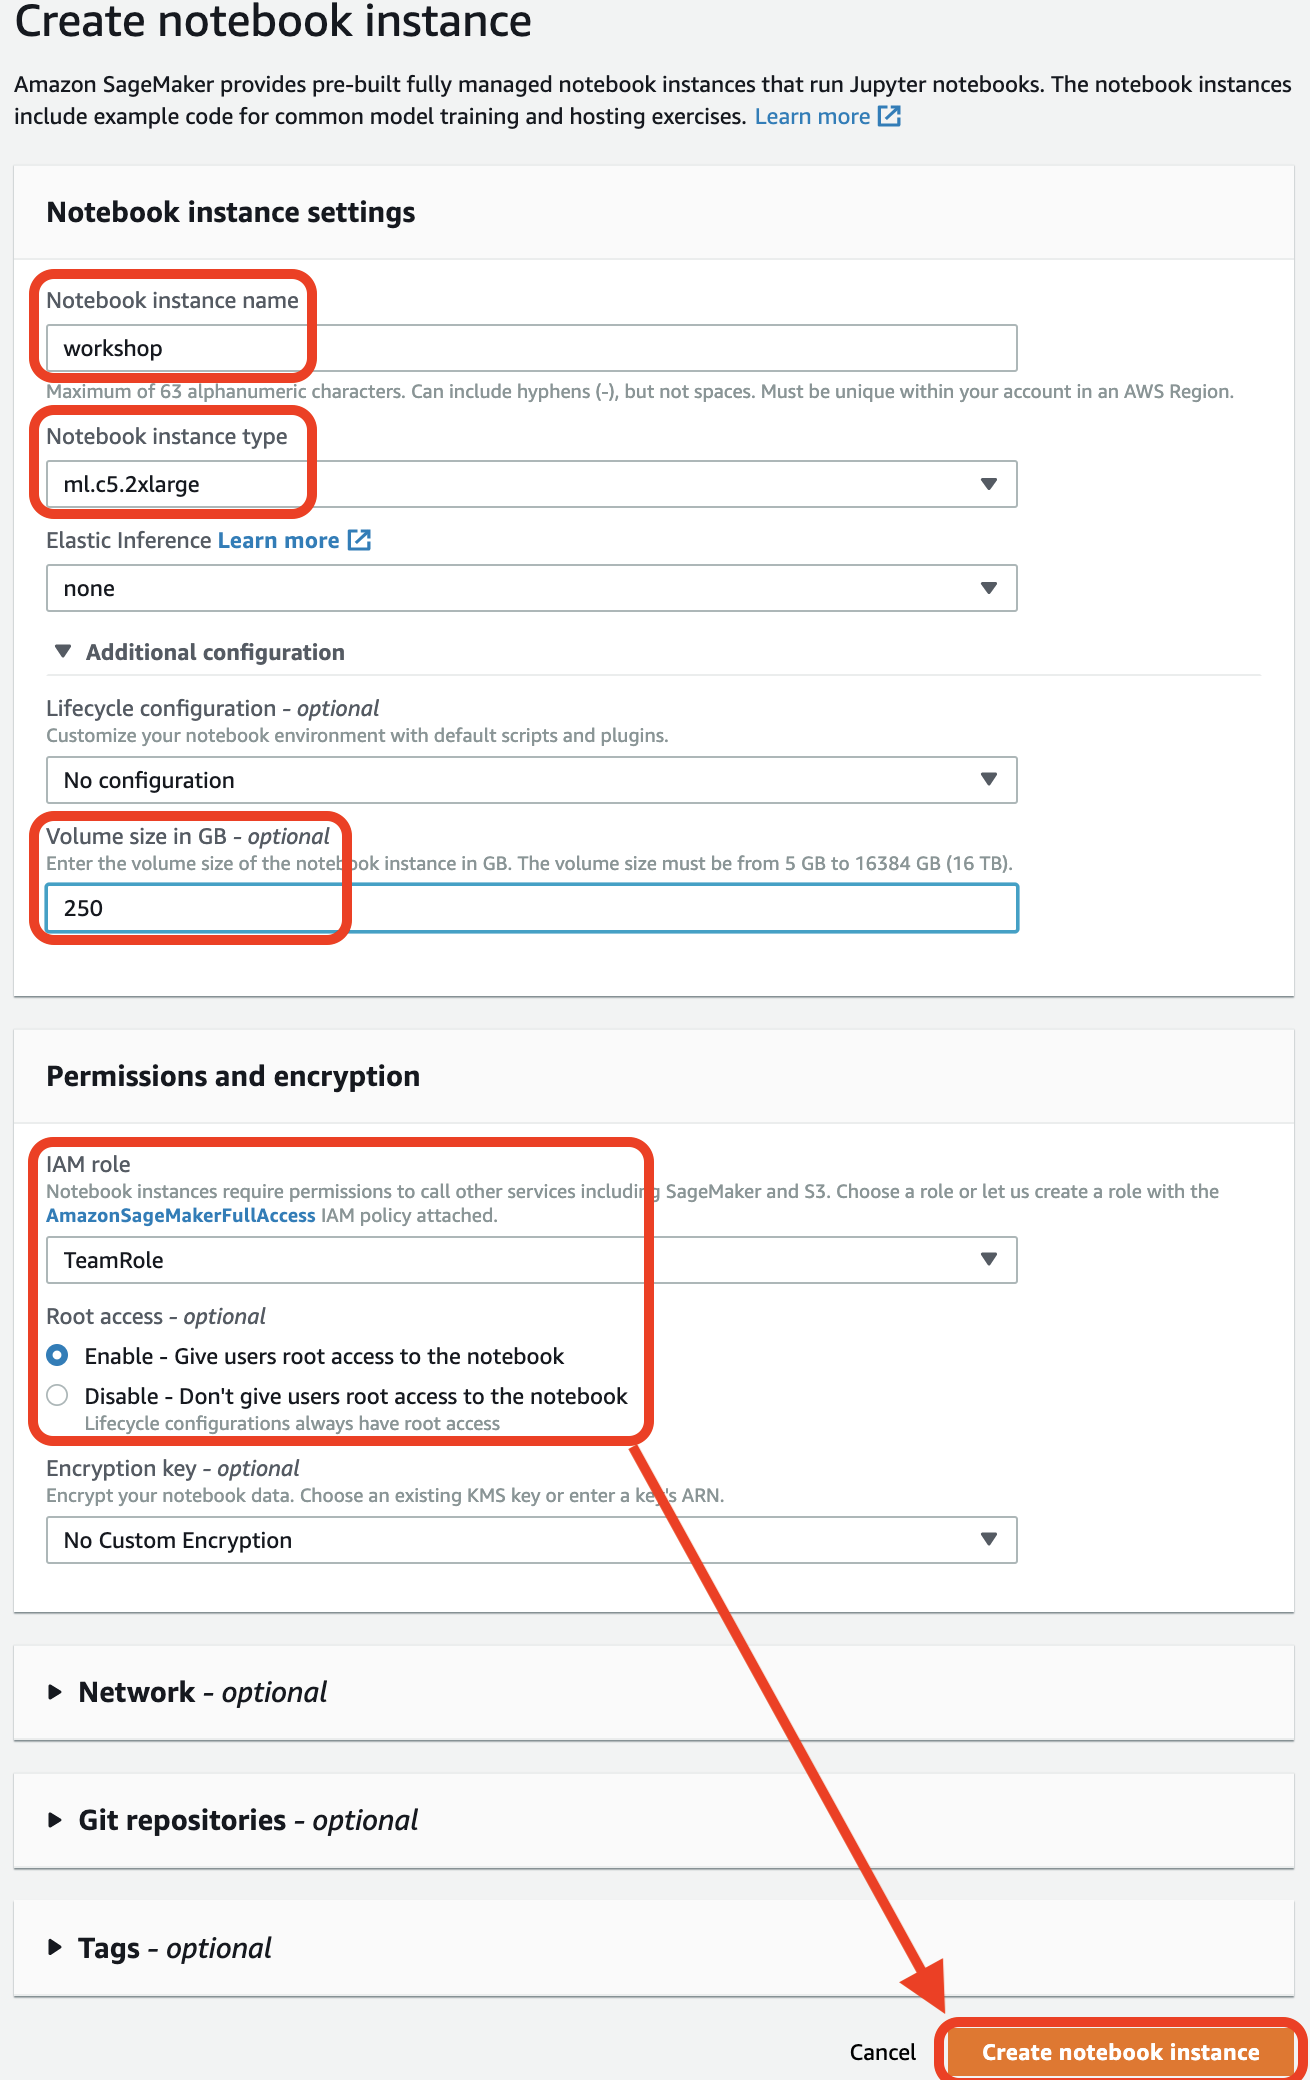
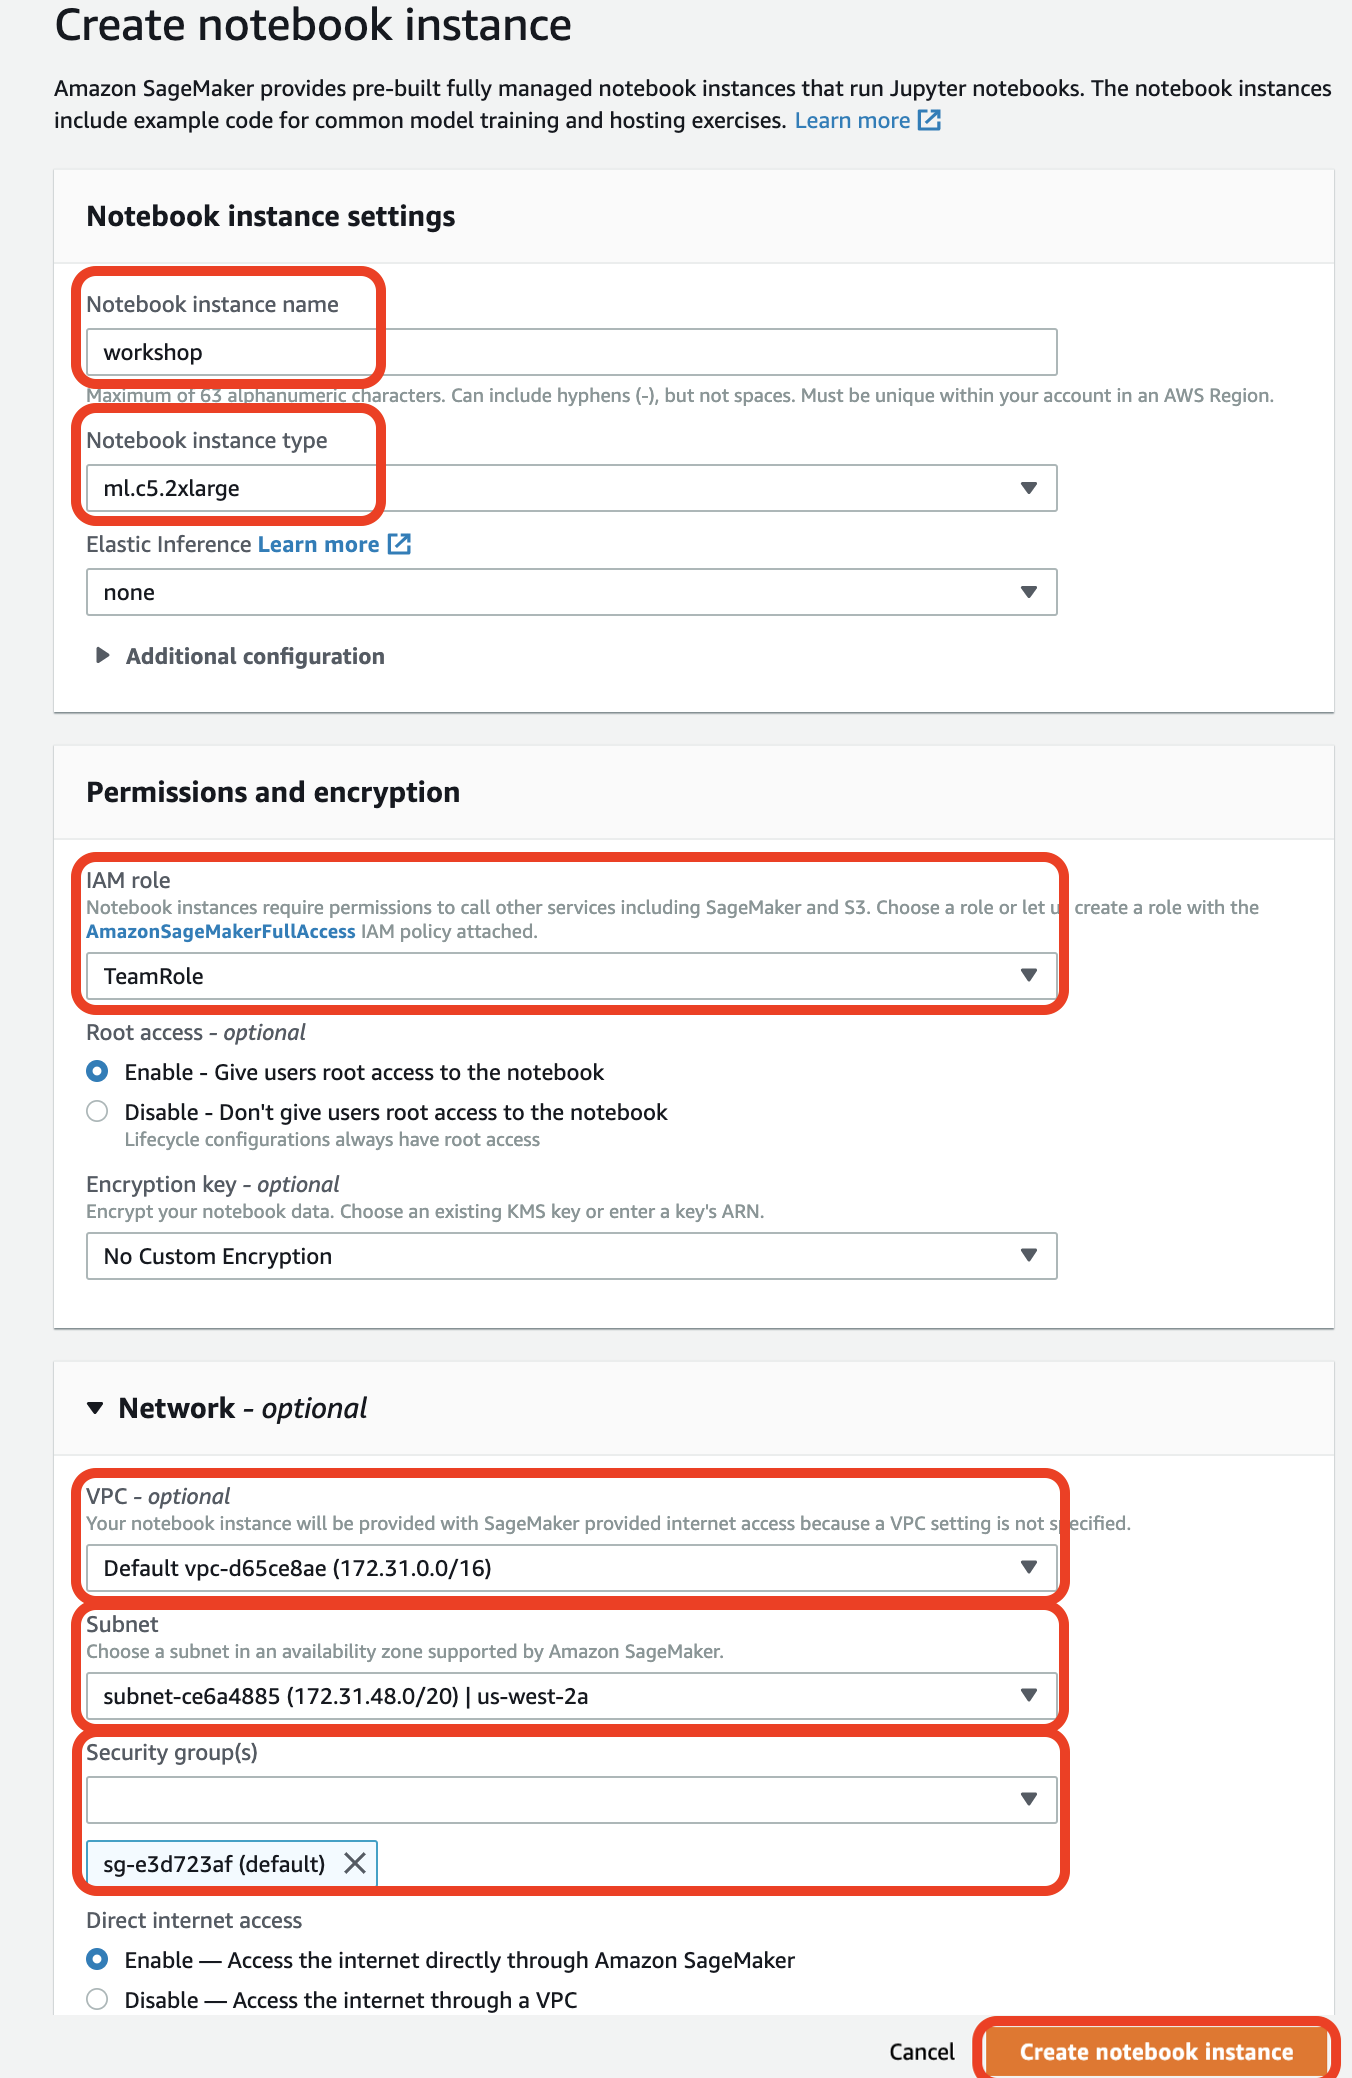
updated

diff --git a/README.md b/README.md
@@ -63,7 +63,9 @@ Volume size `250` - this is only needed for building docker containers. During t
 
 In the IAM role box, select the default `TeamRole`.
 
-Keep the default settings for the other options and click `Create notebook instance`. On the `Notebook instances` section you should see the status change from `Pending` -> `InService`
+You must select the default `VPC`, `Subnet`, and `Security group` as shown below.  Your values will likely be different.  This is OK.
+
+Keep the default settings for the other options not highlighted in red, and click `Create notebook instance`.  On the `Notebook instances` section you should see the status change from `Pending` -> `InService`
 
 While the notebook spins up, continue to work on the next section.  We'll come back to the notebook when it's ready.
 
